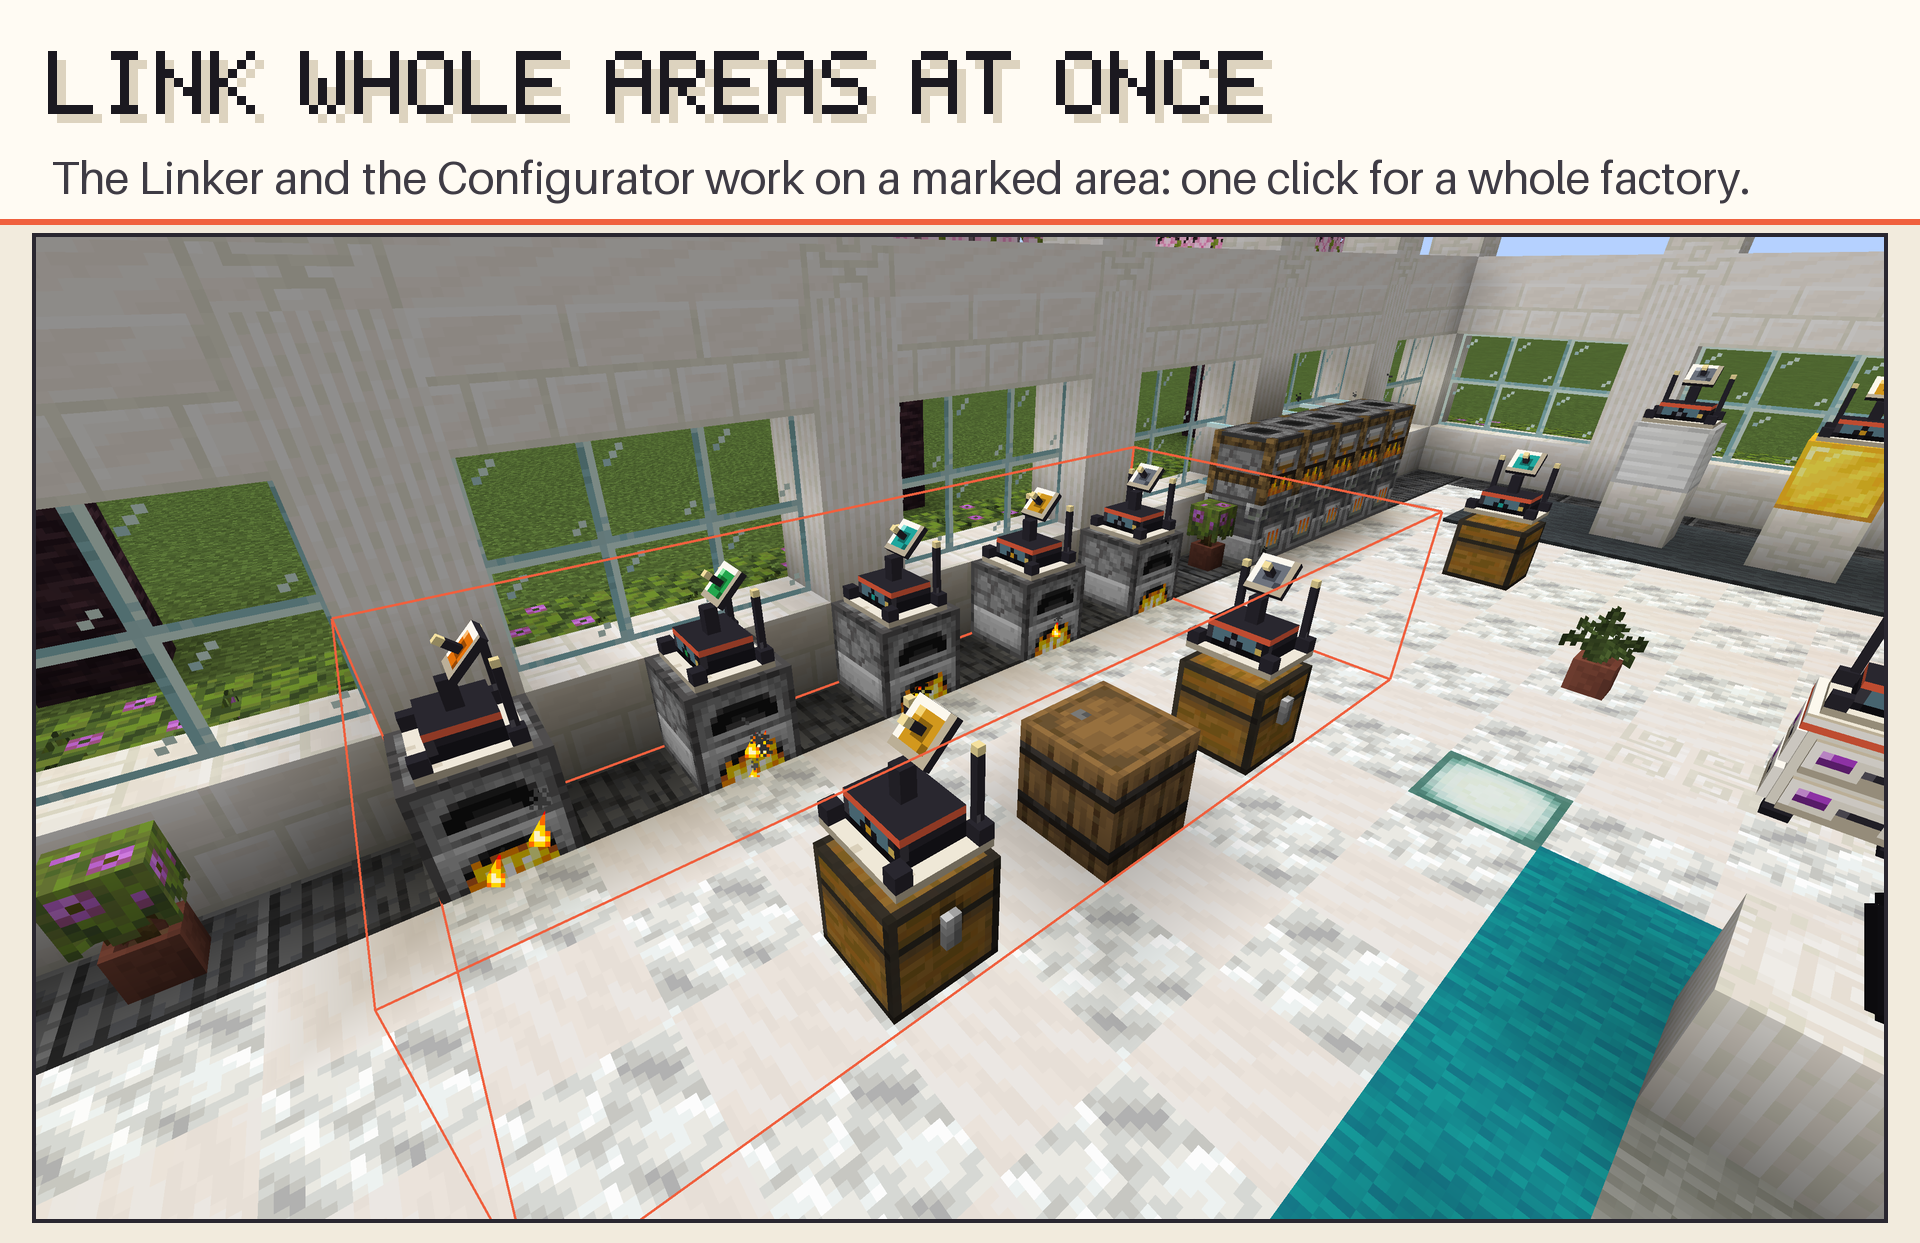
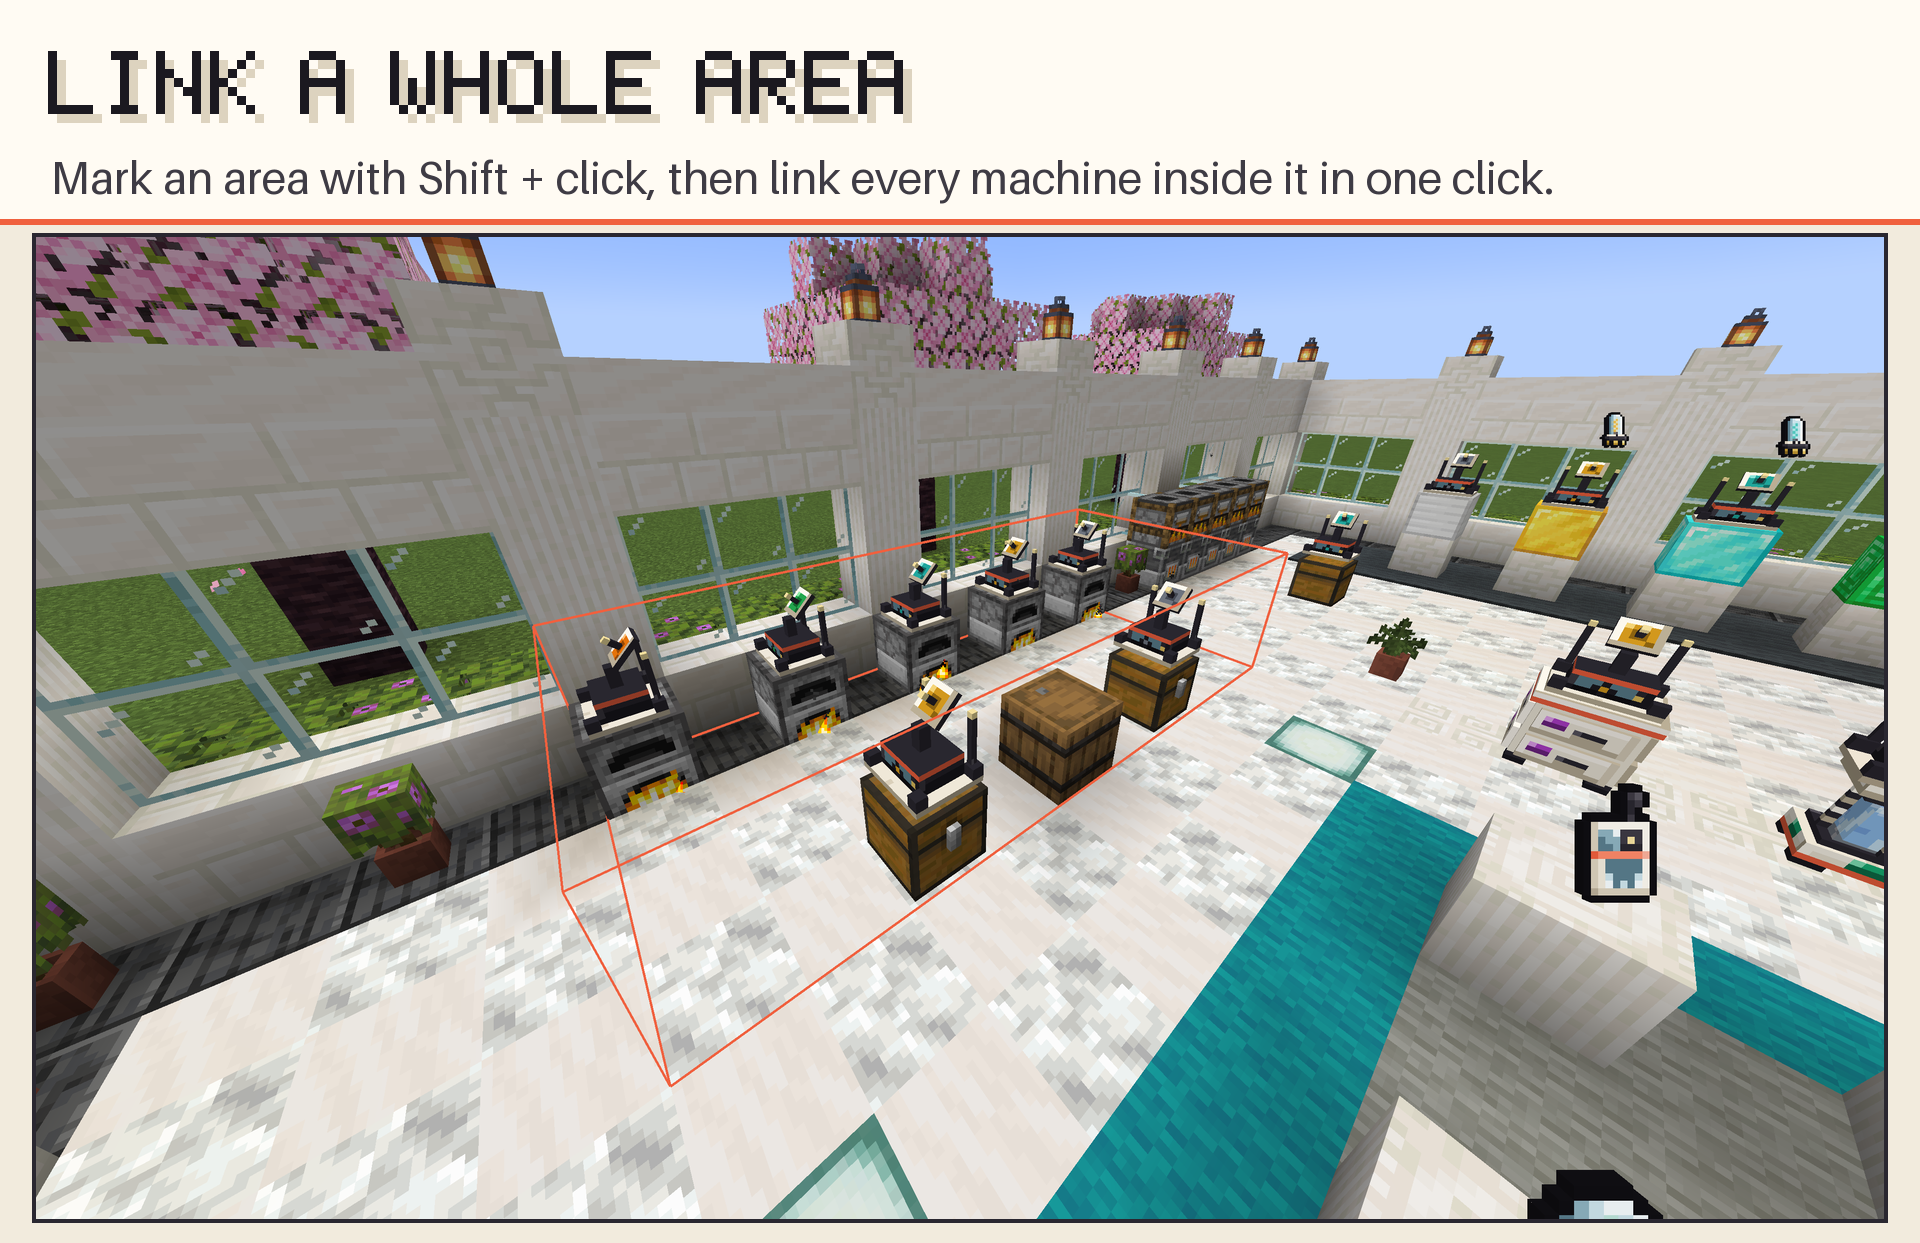
Imagens do CurseForge da 2.7: Vinculador, roda, área, acesso à rede e o mapa arrastável

diff --git a/src/main/java/io/github/matheusanbs/wirelessautomate/client/dev/E2eShowcase.java b/src/main/java/io/github/matheusanbs/wirelessautomate/client/dev/E2eShowcase.java
@@ -124,6 +124,7 @@ final class E2eShowcase {
                 ItemStack linker = new ItemStack(ModItems.LINKER.get());
                 LinkerItem.setArea(linker, new LinkerArea(player.level().dimension(), showBase.offset(-11, 0, -15),
                         java.util.Optional.of(showBase.offset(-8, 1, -7))));
+                LinkerItem.setRouter(linker, net.minecraft.core.GlobalPos.of(player.level().dimension(), showRange));
                 player.setItemInHand(InteractionHand.MAIN_HAND, linker);
                 return null;
             });
@@ -349,6 +350,55 @@ final class E2eShowcase {
         list.add(capture("s21-cascata"));
     }
 
+    /** Vitrine: a aba Redes com os convidados e o time do FTB Teams de uma rede privada. */
+    private static void showcaseAccessShots(List<Step> list) {
+        UUID playerId = Minecraft.getInstance().player.getUUID();
+        String[] names = {"Ana", "Bruno", "Carla"};
+        UUID[] guests = new UUID[names.length];
+        for (int i = 0; i < names.length; i++) {
+            guests[i] = UUID.nameUUIDFromBytes(names[i].getBytes());
+        }
+        UUID[] network = new UUID[1];
+        list.add(new Step("aba Redes", STEP_TIMEOUT_MS, () -> {
+            TabletScreen screen = tabletScreen();
+            screen.previewTab(TabletScreen.Tab.NETWORKS);
+            var networks = screen.getMenu().snapshot().networks();
+            for (int i = 0; i < networks.size(); i++) {
+                if (networks.get(i).manageable() && !networks.get(i).isPublic() && network[0] == null) {
+                    network[0] = networks.get(i).id();
+                    screen.previewNetwork(i);
+                }
+            }
+            if (network[0] == null) {
+                throw new StepFailure("nenhuma rede privada do jogador na vitrine");
+            }
+        }, () -> tabletScreen().access().shown(), () -> "sem a seção de acesso"));
+        list.add(new Step("convidados e time", STEP_TIMEOUT_MS, () -> onServer(server -> {
+            for (int i = 0; i < names.length; i++) {
+                server.getProfileCache().add(new com.mojang.authlib.GameProfile(guests[i], names[i]));
+            }
+            var data = io.github.matheusanbs.wirelessautomate.network.NetworkSavedData.get(server);
+            var net = data.network(network[0]);
+            for (UUID guest : guests) {
+                net = net.withMember(guest);
+            }
+            if (io.github.matheusanbs.wirelessautomate.network.TeamAccess.LOADED) {
+                io.github.matheusanbs.wirelessautomate.compat.ftbteams.FtbTeamsDev.createParty(
+                        server.getPlayerList().getPlayer(playerId), "Smelting Crew");
+                for (var team : io.github.matheusanbs.wirelessautomate.network.TeamAccess.teams()) {
+                    if (team.name().equals("Smelting Crew")) {
+                        net = net.withTeam(team.id());
+                    }
+                }
+            }
+            data.update(net);
+            return null;
+        }), () -> tabletScreen().access().counts()[0] == names.length, () -> "convidados "
+                + java.util.Arrays.toString(tabletScreen().access().counts())));
+        list.add(DevEndToEnd.wait("acesso desenhado", 10));
+        list.add(capture("s7c-tablet-acesso"));
+    }
+
     /** Vitrine: o Tablet (lista, estatísticas e mapa) e o guia. */
     private static void showcaseTabletShots(List<Step> list) {
         // Tablet: lista, estatísticas (com o fluxo da galeria) e mapa.
@@ -382,6 +432,17 @@ final class E2eShowcase {
                 () -> true, () -> "mapa"));
         list.add(DevEndToEnd.wait("mapa desenhado", 10));
         list.add(capture("s7-tablet-mapa"));
+        // o mapa arrastado: o botão Centralizar aparece
+        list.add(new Step("arrastar o mapa", STEP_TIMEOUT_MS, () -> {
+            TabletScreen screen = tabletScreen();
+            int[] c = screen.mapEmptyPoint();
+            screen.mouseClicked(c[0], c[1], GLFW.GLFW_MOUSE_BUTTON_LEFT);
+            screen.mouseDragged(c[0] + 70, c[1] - 30, GLFW.GLFW_MOUSE_BUTTON_LEFT, 70, -30);
+            screen.mouseReleased(c[0] + 70, c[1] - 30, GLFW.GLFW_MOUSE_BUTTON_LEFT);
+        }, () -> tabletScreen().mapPan()[0] != 0, () -> "mapa não andou"));
+        list.add(DevEndToEnd.wait("mapa arrastado", 10));
+        list.add(capture("s7b-tablet-mapa-arrastado"));
+        showcaseAccessShots(list);
         list.add(close("fechar o Tablet"));
         if (ModList.get().isLoaded("guideme")) {
             list.add(new Step("guia", STEP_TIMEOUT_MS,

diff --git a/scripts/curseforge/gerar_imagens.py b/scripts/curseforge/gerar_imagens.py
@@ -349,14 +349,14 @@ DESTAQUES = [
     ("feature-14-toolkit", "The toolkit",
      "Linker, Configurator, Tablet, Filter Card, Upgrade Cards and the guide book.",
      VITRINE / "s14-vitrine.png", (100, 120, 1180, 660)),
-    ("feature-5-area", "Link whole areas at once",
-     "The Linker and the Configurator work on a marked area: one click for a whole factory.",
+    ("feature-5-area", "Link a whole area",
+     "Mark an area with Shift + click, then link every machine inside it in one click.",
      VITRINE / "s2-vinculador-area.png", (0, 120, 1280, 800)),
-    ("feature-16-wheel", "Configurator wheel",
-     "Hold Left Alt: pick the mode and the pasted type, and paste on any machine in the area.",
+    ("feature-16-wheel", "Configurator Brush",
+     "Shift + click copies, click pastes. Hold Left Alt to pick the pasted type.",
      VITRINE / "s16-roda.png", (0, 0, 1280, 800)),
-    ("feature-13-linker", "Linker by type",
-     "Check the tabs and the faces to link: only Items, only Top and Bottom, or everything.",
+    ("feature-13-linker", "Link or open",
+     "Link adds machines to a Range router. Open jumps to the router that reaches one.",
      VITRINE / "s13-vinculador.png", (164, 84, 1116, 716)),
     ("feature-6-tablet", "Network Tablet",
      "Every router, from anywhere: live stats per resource type, a map and groups.",
@@ -364,6 +364,12 @@ DESTAQUES = [
     ("feature-22-tablet-list", "One row per router",
      "Tier, name and the machine it sits on. Pick one to edit its faces right there, or rename it.",
      VITRINE / "s6-tablet-lista.png", (60, 80, 1222, 720)),
+    ("feature-24-network-access", "Share a network",
+     "Invite friends or a whole FTB Teams team to a private network.",
+     VITRINE / "s7c-tablet-acesso.png", (60, 80, 1222, 720)),
+    ("feature-25-map", "A map you can drag",
+     "Every router you can see, by status. Drag to move, scroll to zoom.",
+     VITRINE / "s7b-tablet-mapa-arrastado.png", (60, 80, 1222, 720)),
     ("feature-7-guide", "Built-in guide book",
      "Every item explained in game, with 3D scenes and recipes. English and Portuguese.",
      VITRINE / "s8-guia.png", (296, 52, 1266, 658)),

diff --git a/docs/curseforge/descricao.md b/docs/curseforge/descricao.md
@@ -138,16 +138,16 @@ A Cut Signal Crystal yields twice as much and lasts twice as long. From Elite up
 
 ![The toolkit](https://media.forgecdn.net/attachments/2085/338/feature-14-toolkit-png.png)
 
-![Link whole areas at once](https://media.forgecdn.net/attachments/2085/329/feature-5-area-png.png)
+![Link a whole area](ENVIAR:feature-5-area.png)
 
 - **Linker** (two modes): **Link** picks a router with the Range Upgrade (click it) and links the machines you click, or **a whole marked area** at once (Shift + click two blocks; nearest first, up to the tier's radius and limit); the **Unlink** switch takes them out instead. **Open** opens the screen of the router that reaches the machine you click, already editing that machine; with several routers, a short list lets you pick. It checks range, claims and protection mods on the router. The Linker no longer touches networks: choose each face's network on the router screen or in the Tablet.
 - **Configurator** (the Brush): Shift + click a router copies its setup (faces, filters, priorities, redstone and the network of each face), click pastes it on another, and Shift + click on a block without a router clears the copy. Paste every tab or just one type, leaving the other tabs alone. Hold **Left Alt** for a radial wheel that picks the pasted type. A face's network is only pasted if you can use it, and a face only leaves a network you can edit. To configure many routers at once, paste the profile on the Tablet's marked ones.
 - **Chunk Loading Upgrade:** keeps a router and its machine working while you're away.
 - **Recipe editor** (operators): `/wa recipes` opens a screen to change, disable or restore any of the mod's crafting recipes, with items from your inventory or JEI, tags and the result count. Saved as a datapack in `config/wirelessautomate/recipes/`, so it works in every world and survives updates. Handy for packs that want a different Ultimate recipe.
 
-![Configurator wheel](https://media.forgecdn.net/attachments/2085/340/feature-16-wheel-png.png)
+![Configurator Brush](ENVIAR:feature-16-wheel.png)
 
-![Linker by type](https://media.forgecdn.net/attachments/2085/337/feature-13-linker-png.png)
+![Link or open](ENVIAR:feature-13-linker.png)
 
 ### Network Tablet
 
@@ -158,6 +158,10 @@ Every router of every network, from anywhere: one search box for machine, networ
 **Share a network.** On a private network you own, the Networks tab lists your **guests** and, with FTB Teams, your **teams**: type a name and pick from the suggestions (players who already joined the server, and party teams), and click the ✕ twice to remove. Guests use the network and edit its nodes; only you and operators manage it. A team counts as a whole and is live: whoever joins or leaves it gains or loses access on their own. There are `/wa network invite`, `uninvite` and `team add|remove` commands too.
 
 ![One row per router](https://media.forgecdn.net/attachments/2085/346/feature-22-tablet-list-png.png)
+
+![A map you can drag](ENVIAR:feature-25-map.png)
+
+![Share a network](ENVIAR:feature-24-network-access.png)
 
 ### Built-in guide book
 

diff --git a/docs/progresso.md b/docs/progresso.md
@@ -6,7 +6,7 @@ Legenda: ✅ pronto e testado · 🟡 parcial · ⬜ não começado
 
 ## Resumo
 
-**Versão 2.7.0 (22/10/2026), publicada:** acesso às redes privadas (convidados e times do FTB Teams, opcional), Mapa do Tablet arrastável e com pontos próprios (protocolo 32), Vinculador com os modos Vincular e Abrir, Configurador só com o Pincel e as correções da revisão de bugs. Changelog em `docs/curseforge/changelog-2.7.0.md` e `changelog-curseforge-2.7.0.md`. O dono sobe o jar e o changelog no CurseForge; as imagens novas estão em `docs/curseforge/`.
+**Versão 2.7.0 (22/10/2026), publicada:** acesso às redes privadas (convidados e times do FTB Teams, opcional), Mapa do Tablet arrastável e com pontos próprios (protocolo 32), Vinculador com os modos Vincular e Abrir, Configurador só com o Pincel e as correções da revisão de bugs. Changelog em `docs/curseforge/changelog-2.7.0.md` e `changelog-curseforge-2.7.0.md`. O dono sobe o jar e o changelog no CurseForge e as cinco imagens novas ou refeitas (`feature-5-area`, `feature-13-linker`, `feature-16-wheel`, `feature-24-network-access` e `feature-25-map`, em `docs/curseforge/`), e manda os links para trocar os `ENVIAR:` da `descricao.md`.
 
 **Acesso às redes privadas (22/10/2026, local, sem push):** o dono convida jogadores (por sugestões ao digitar ou pelo nome) e adiciona times do FTB Teams (ao vivo) a uma rede privada; o convidado usa e edita, só o dono e operadores gerenciam. `WaNetwork` com `members` e `teams` e as regras `canManage`, `canEdit` e `canUse`; ponte `TeamAccess` e `compat/ftbteams`; seções Convidados e Times na aba Redes (`AccessSection`, `SuggestField`); `/wa network invite`, `uninvite` e `team`; protocolo 31; nova run `gameTestServerTeams`. Spec e plano em `docs/superpowers/specs|plans/2026-10-22-acesso-redes-privadas*`.
 
